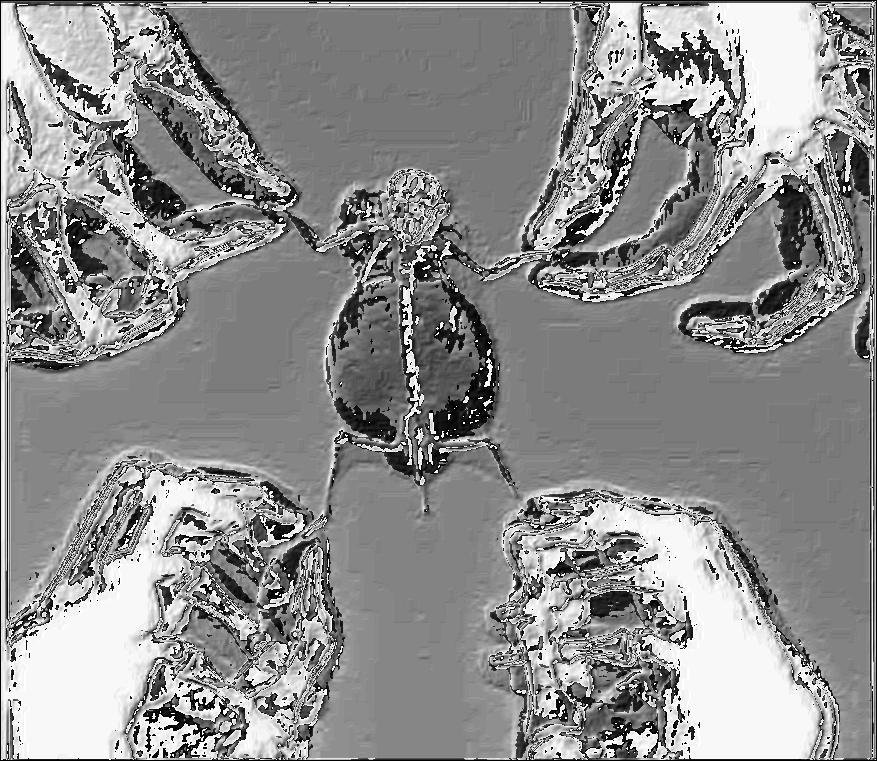
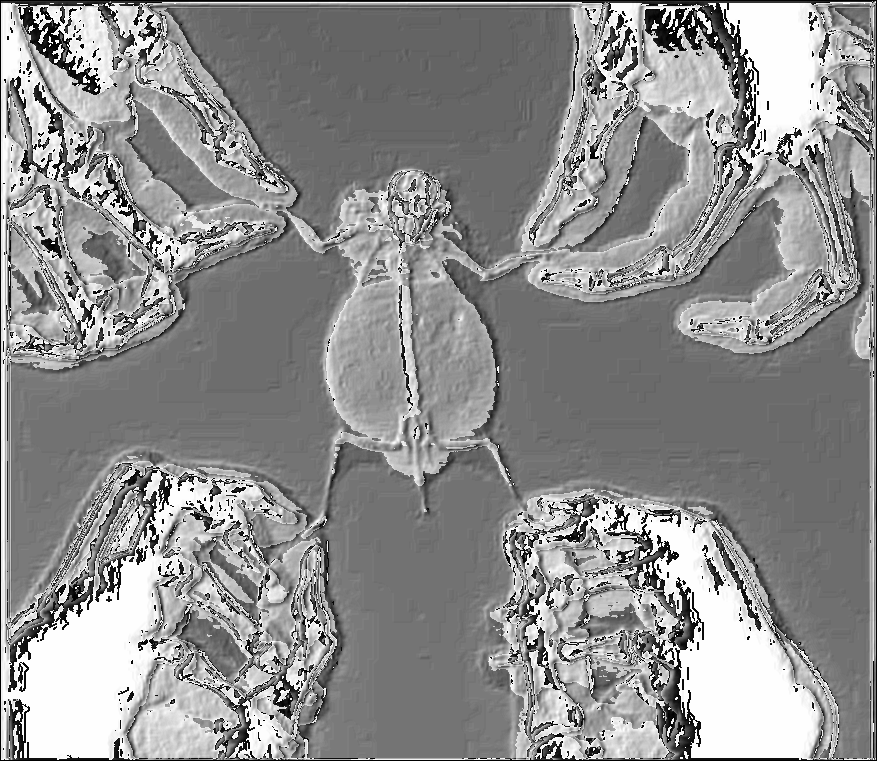
some numbers 3

diff --git a/gauss.c b/gauss.c
@@ -46,9 +46,9 @@ int main(){
 
 	for(i=1; i<ih-1; i++)
 		for(j=1; j<iw-1; j++){
-			gx = 3*odata_g[iw*(i-1)+(j+1)] + 6*odata_g[iw*i+(j+1)] + 2*odata_g[iw*(i+1)+(j+1)] - odata_g[iw*(i+1)+(j-1)] - 2*odata_g[iw*i+(j-1)] - 4*odata_g[iw*(i-1)+(j-1)];
+			gx = 3*odata_g[iw*(i-1)+(j+1)] + 3*odata_g[iw*i+(j+1)] + 2*odata_g[iw*(i+1)+(j+1)] - odata_g[iw*(i+1)+(j-1)] - 2*odata_g[iw*i+(j-1)] - 4*odata_g[iw*(i-1)+(j-1)];
 		       	gy = 2*odata_g[iw*(i+1)+(j-1)] + 2*odata_g[iw*(i+1)+j] + odata_g[iw*(i+1)+(j+1)] - 3*odata_g[iw*(i-1)+(j-1)] - 2*odata_g[iw*(i-1)+j] - 5*odata_g[iw*(i-1)+(j+1)];
-	       		odata_s[iw*i+j] = sqrt(gx*gx + gy*gy);	       
+	       		odata_s[iw*i+j] = sqrt(gx*gx + gy*gy/2);	       
 		}
 
 
